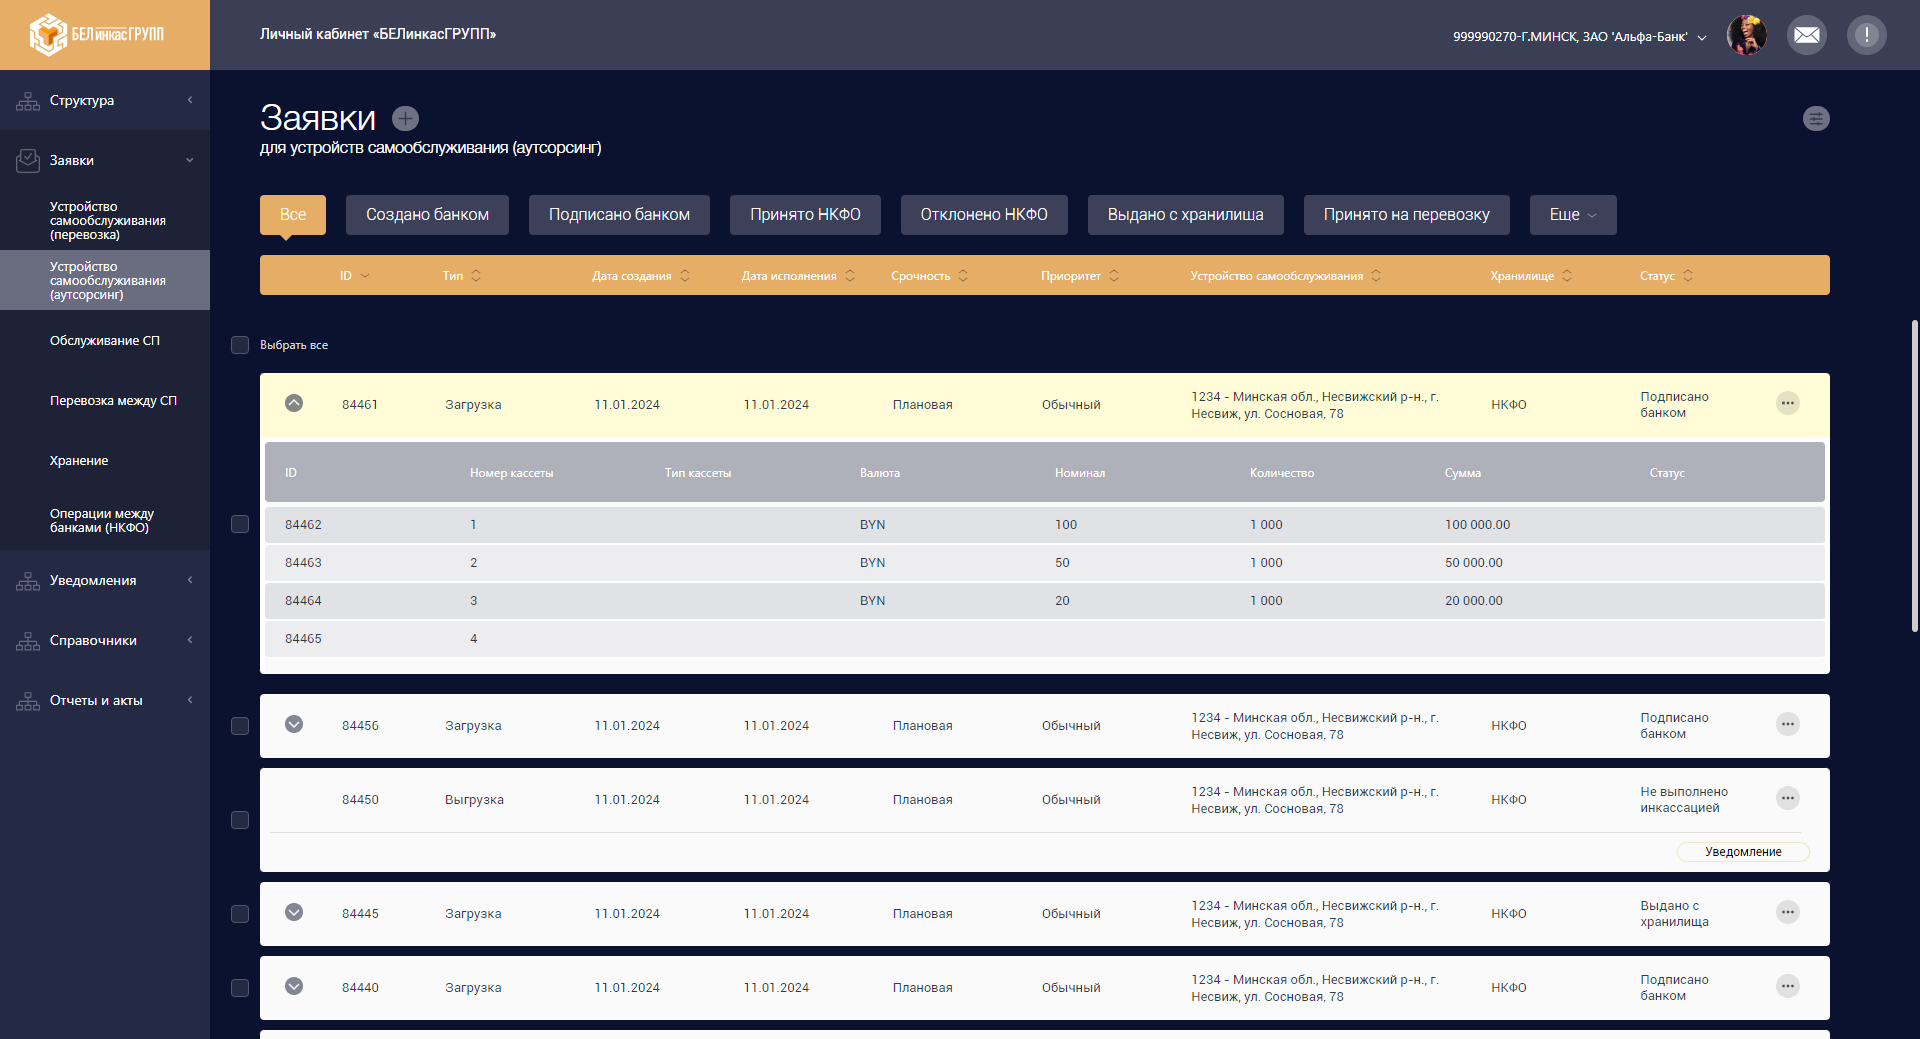
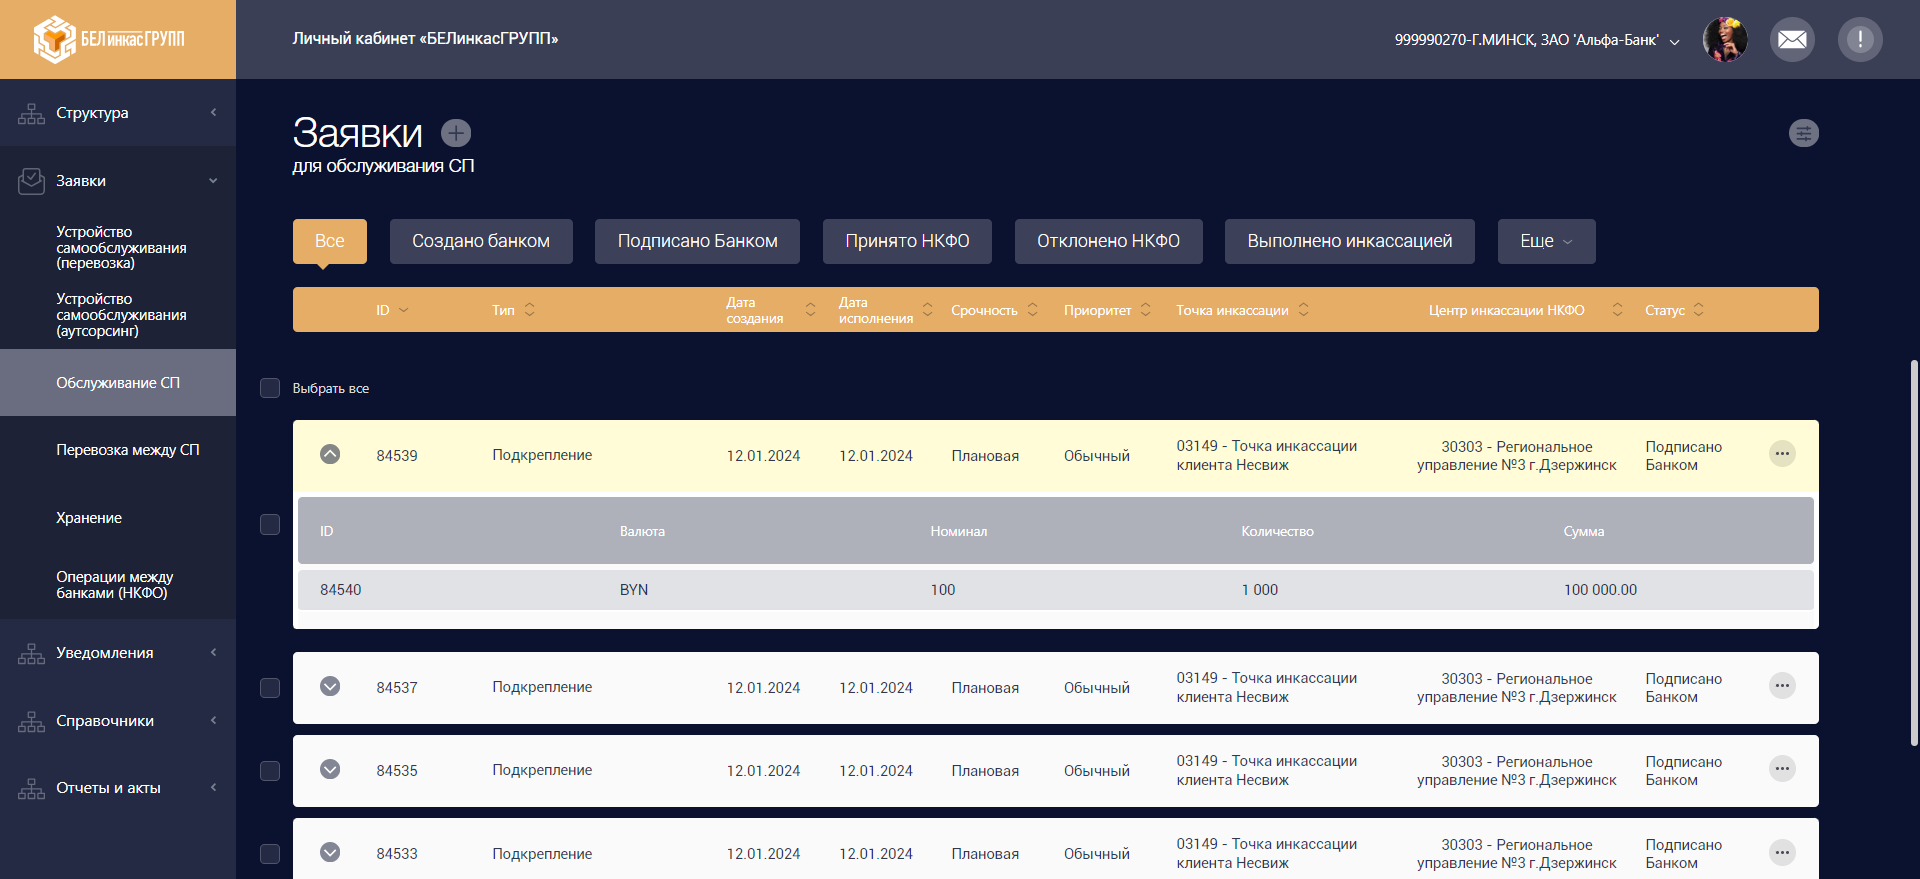
add test for issue 3027

diff --git a/src/test/java/all/issue3027ServiceSp/Issue3027ServiceSpMainPage.java b/src/test/java/all/issue3027ServiceSp/Issue3027ServiceSpMainPage.java
@@ -1,0 +1,199 @@
+package all.issue3027ServiceSp;
+
+import org.openqa.selenium.By;
+import org.openqa.selenium.JavascriptExecutor;
+import org.openqa.selenium.WebDriver;
+import org.openqa.selenium.WebElement;
+import org.openqa.selenium.interactions.Actions;
+import org.openqa.selenium.support.FindBy;
+import org.openqa.selenium.support.PageFactory;
+import org.openqa.selenium.support.ui.WebDriverWait;
+
+import java.text.DateFormat;
+import java.text.SimpleDateFormat;
+import java.time.Duration;
+import java.util.Date;
+import java.util.List;
+import java.util.concurrent.TimeUnit;
+
+public class Issue3027ServiceSpMainPage {
+
+    public WebDriver driver;
+    public WebDriverWait wait;
+    private JavascriptExecutor jsExecutor;
+
+    public Issue3027ServiceSpMainPage(WebDriver driver, WebDriverWait wait) {
+        this.driver = driver;
+        this.wait = wait;
+        PageFactory.initElements(driver, this);
+    }
+
+    public final static String delimiter = "---------------------------------------------------";
+
+    @FindBy(css = ".AuthorizationView__input")
+    public WebElement login;
+
+    @FindBy(id = "_inputTwoEl")
+    public WebElement password;
+
+    @FindBy(css = "button.toComeIn.authorization")
+    public WebElement enter;
+
+    @FindBy(css = "#details-button")
+    public WebElement additionally;
+
+    @FindBy(css = "#proceed-link")
+    public WebElement transition;
+
+    @FindBy(xpath = "//a[@href='#/outbank/requests/service-sp']")
+    public WebElement issueServiceSp;
+
+    @FindBy(css = ".svg-add")
+    public WebElement scrollToPlus;
+
+    @FindBy(css = ".svg-add-2")
+    public WebElement buttonAddForm;
+
+    @FindBy(xpath = "//label[@for='action']/parent::div[@class='itemGroup']//div[@class='css-1rtrksz select__value-container select__value-container--has-value']")
+    public WebElement typeIssue;
+
+    @FindBy(css = "#actionDate")
+    public WebElement inputActionDate;
+
+    @FindBy(xpath = "//label[@for='pointId']/parent::div[@class='itemGroup']//div[@class='css-1rtrksz select__value-container select__value-container--has-value']")
+    public WebElement pointId;
+
+    @FindBy(css = "._w-500")
+    public WebElement textArea;
+
+    @FindBy(css = ".addNotif")
+    public WebElement addIssue;
+
+    @FindBy(xpath = "//div[@class='checkboxInput__wrapper'][1]//div[@class='item-itemTable _widthCell-10-100'][5]//span[@class='item-itemTable__label']")
+    public WebElement status;
+
+    @FindBy(css = ".event_block__item_content")
+    public WebElement signPopup;
+
+
+    public void open() {
+        driver.navigate().to("https://192.168.51.29:8243/ndo/outbank/1.0/user");
+        driver.manage().window().maximize();
+        driver.manage().timeouts().implicitlyWait(15, TimeUnit.SECONDS);
+        additionally.click();
+        transition.click();
+        driver.navigate().to("https://big.lwo.by/auth");
+        login.sendKeys("outbank");
+        password.sendKeys("123456");
+        enter.click();
+
+    }
+
+    public void getSummRows() {
+        //WebDriver driver = DriverFactory.getWebDriver();
+        List<WebElement> optionsList = driver.findElements(By.xpath("//div[@class='tableListItems_group_wrapper']/*"));
+        int countDown = 0;
+        for (WebElement span : optionsList) {
+            if (span.getAttribute("class").startsWith("checkboxInput__wrapper")) {
+                countDown++;
+
+            }
+        }
+        System.out.println("Количество созданных заявок: " + countDown); //отбор нужного количества строк с одинаковым значением атрибута class + получение их общей суммы
+        System.out.println(delimiter);
+    }
+    public void issue() { //вкладка подзаявки из вкладки "Заявки"
+        issueServiceSp.click();
+        driver.manage().timeouts().implicitlyWait(Duration.ofSeconds(30));
+    }
+
+    public void scrollToButtonAddFormIssue(){
+        new Actions(driver)
+                .moveToElement(scrollToPlus)
+                .moveToElement(buttonAddForm)
+                .click()
+                .perform();
+    }
+
+    public void typeIssue(String xpath){
+        Actions actions = new Actions(driver);
+        actions.moveToElement(typeIssue).click().build().perform();
+        WebElement device = driver.findElement(By.xpath(xpath));
+        ((JavascriptExecutor) driver).executeScript("arguments[0].click()", device); //JS скрипт клик элемента
+    }
+    public void insertActionDate() { //выбор даты
+        DateFormat dateFormat = new SimpleDateFormat("dd-MM-yyyy");
+        Date date = new Date();
+        String output = dateFormat.format(date);
+        inputActionDate.sendKeys(output);
+    }
+    public void choicePoint(String xpath){
+        Actions actions = new Actions(driver);
+        actions.moveToElement(pointId).click().build().perform();
+        WebElement device = driver.findElement(By.xpath(xpath));
+        ((JavascriptExecutor) driver).executeScript("arguments[0].click()", device); //JS скрипт клик элемента
+    }
+    public void addAttachment() {
+        WebElement motion = driver.findElement(By.xpath("//*[text()='Добавить']")); //поиск кнопки "Добавить"
+        ((JavascriptExecutor) driver).executeScript("arguments[0].scrollIntoView(true);", motion); //скрол вниз на невидимый элемент
+        motion.click();
+        driver.findElement(By.xpath("//*[text()='Номинал валюты']/ancestor::div[@class='itemGroup']")).click(); //xpath к полю "номинал валюты";
+        driver.findElement(By.xpath("//*[text()='100']")).click(); //ввод номинала валюты
+        driver.findElement(By.xpath("//input[@id='amount']")).sendKeys("1000");
+        driver.findElement(By.xpath("//*[text()='Добавить Вложение']")).click(); //кнопка "Добавить вложение";
+        driver.findElement(By.xpath("//*[text()='Добавить заявку']")).click(); //кнопка "Добавить заявку"
+    }
+
+
+
+
+    public void scribeIssue() throws Exception { // подписание заявки
+        driver.findElement(By.xpath("//div[@id='root']/div/header/div[3]/div[2]/div/div/div[3]/button")).click(); //очистить
+        driver.findElement(By.xpath("//div[@class='wrapper-drop']")).click(); //клик по менюшке для вызова меню подписания
+        driver.findElement(By.xpath("//a[@class='itemActionDrop'][3]/span")).click(); //п.м. "Подписать"
+        driver.findElement(By.xpath("//div[@id='root']/div/div[2]/div/div/div/div[2]/div[4]/button[2]")).click(); //кнопка "Подписать" на форме подписания
+        driver.findElement(By.xpath("(//input[@name='signPassword'])[2]")).sendKeys("11111111"); //ввод пароля
+        driver.findElement(By.xpath("//*[text() = 'Подписать']")).click(); // п.м. "Подписать"
+        driver.manage().timeouts().implicitlyWait(Duration.ofSeconds(20));
+
+        WebElement result = driver.findElement(By.xpath("//div[@class='m-body bulkSignature']//div[@class='TextPopupWrapper'][2]//span[@class='f-s-HL-14']"));
+        boolean Exception = false;
+
+        if (result.getText().startsWith("Подписано: 1 документов")) {
+            driver.findElement(By.xpath("//div[@id='root']/div/div[2]/div/div/div/div[3]/button")).click(); //закрыть форму уведомления о подписании
+            //driver.findElement(By.xpath("//div[@id='root']/div/header/div[3]/div[2]/div/div/div[3]/button")).click(); //ок
+            driver.manage().timeouts().implicitlyWait(Duration.ofSeconds(20));
+        } else {
+            throw new Exception("Не удалось подписать заявку! Проверьте корректность ввода данных!");
+
+        }
+    }
+    public void getWatchIssues() { // раскрытие и просмотр созданной заявки
+        driver.findElement(By.xpath("//div[@class='item-itemTable _widthCell-5-60']")).click();
+        WebElement number = driver.findElement(By.xpath("//div[@class='item-itemTable _widthCell-5-103']/span[@class='item-itemTable__label']"));
+        System.out.println("ID созданной заявки: " + number.getText());
+        System.out.println(delimiter);
+    }
+    public void parseRowsIssue() {
+        //парсинг строки созданной заявки (вывод соответствия полей: наименование и значение)
+        List<WebElement> headerColumns = driver.findElements(By.xpath("//div[@class='contentHeader_fixed']//div[@class='headerTable _h-60'][1]/*"));
+        List<WebElement> listOfRows = driver.findElements(By.xpath("//div[@class='tableItem ']/*"));
+        for (int i = 0; i < headerColumns.size(); i++) {
+            System.out.println(headerColumns.get(i).getText() + ": " + listOfRows.get(i).getText());
+        }
+        System.out.println(delimiter);
+    }
+    public void parseRowsIssueAttachments() {
+        //парсинг строки вложений созданной заявки (вывод соответствия полей: наименование и значение)
+        List<WebElement> headerColumns = driver.findElements(By.xpath("//div[@class='tableC nTable']//div[@class='headerTable _h-60']/*"));
+        List<WebElement> listOfRows = driver.findElements(By.xpath("//div[@class='tableC nTable']//div[@class='contentTable ']/div[@class='wrapper-itemTable undefined']/div[@class='tableItem ']"));
+        for (WebElement row : listOfRows) {
+            List<WebElement> childs = row.findElements(By.xpath("./*"));
+            for (int i = 0; i < headerColumns.size(); i++) {
+                System.out.println(headerColumns.get(i).getText() + ": " + childs.get(i).getText());
+            }
+            System.out.println(delimiter);
+        }
+    }
+
+}

diff --git a/src/test/java/all/issue3027ServiceSp/Issue3027ServiceSpTest.java b/src/test/java/all/issue3027ServiceSp/Issue3027ServiceSpTest.java
@@ -1,32 +1,28 @@
-package all.issue3026AutsourcingUs;
+package all.issue3027ServiceSp;
 
 import all.TestBase;
-import all.issue3025TransferUs.Issue3025TransferUsMainPage;
+import all.issue3027ServiceSp.Issue3027ServiceSpMainPage;
 import org.junit.jupiter.api.Assertions;
 import org.junit.jupiter.api.Test;
-import org.openqa.selenium.interactions.Actions;
-import org.openqa.selenium.support.ui.ExpectedConditions;
 
-import java.time.Duration;
-
-public class Issue3026OutsourcingUsTest extends TestBase {
+public class Issue3027ServiceSpTest extends TestBase {
 
     @Test
-    public void test3026OutsourcingUs() throws Exception {
+    public void test3027ServiceSp() throws Exception {
         //arrange
-        var page = new Issue3026AutsourcingUsMainPage(driver, wait);
+
+        var page = new Issue3027ServiceSpMainPage(driver, wait);
         page.open();
         //act
         page.issue();
-        page.issueOutsourcing.click();
         page.getSummRows();
 //        wait.until(ExpectedConditions.visibilityOf(page.scrollToPlus));
         page.scrollToButtonAddFormIssue();
+        page.typeIssue("//div[text()='Подкрепление']");
         page.insertActionDate();
-        page.choiceSst("//div[text()='1234-Минская обл., Несвижский р-н., г. Несвиж, ул. Сосновая, 78']");
+        page.choicePoint("//div[text()='03149 - Точка инкассации клиента Несвиж']");
         page.textArea.sendKeys("создана автотестом!");
-        page.mouseOverToCassette();
-        page.addIssue.click();
+        page.addAttachment();
         page.scribeIssue();
         page.getWatchIssues();
         page.parseRowsIssue();
@@ -34,7 +30,7 @@ public class Issue3026OutsourcingUsTest extends TestBase {
         page.getSummRows();
         //assert
         var expectedResultSign = "Подпись прошла успешно";
-        var expectedResult = "Подписано банком";
+        var expectedResult = "Подписано Банком";
 
         Assertions.assertAll(
                 ()-> Assertions.assertEquals(expectedResult, page.status.getText(), "Заявка не подписана"), //проверка на соответствие значения string статуса
@@ -43,4 +39,5 @@ public class Issue3026OutsourcingUsTest extends TestBase {
 
         page.signPopup.click();
     }
+
 }

diff --git a/src/test/java/all/issue3025TransferUs/Issue3025TransferUsTest.java b/src/test/java/all/issue3025TransferUs/Issue3025TransferUsTest.java
@@ -25,10 +25,10 @@ public class Issue3025TransferUsTest extends TestBase {
         page.mouseOverToCassette();
         page.addIssue.click();
         page.scribeIssue();
-        page.getSummRows();
         page.getWatchIssues();
         page.parseRowsIssue();
         page.parseRowsIssueAttachments();
+        page.getSummRows();
         //assert
         var expectedResultSign = "Подпись прошла успешно";
         var expectedResult = "Подписано банком";

diff --git a/src/test/java/all/TestBase.java b/src/test/java/all/TestBase.java
@@ -65,7 +65,7 @@ public class TestBase {
     private void takeScreenshot() throws IOException{
         var sourceFile = ((TakesScreenshot) driver).getScreenshotAs(OutputType.FILE);
         FileUtils.copyFile(sourceFile, new File("screenshot.png"));
-        driver.quit();
+//        driver.quit();
 
     }
 }
